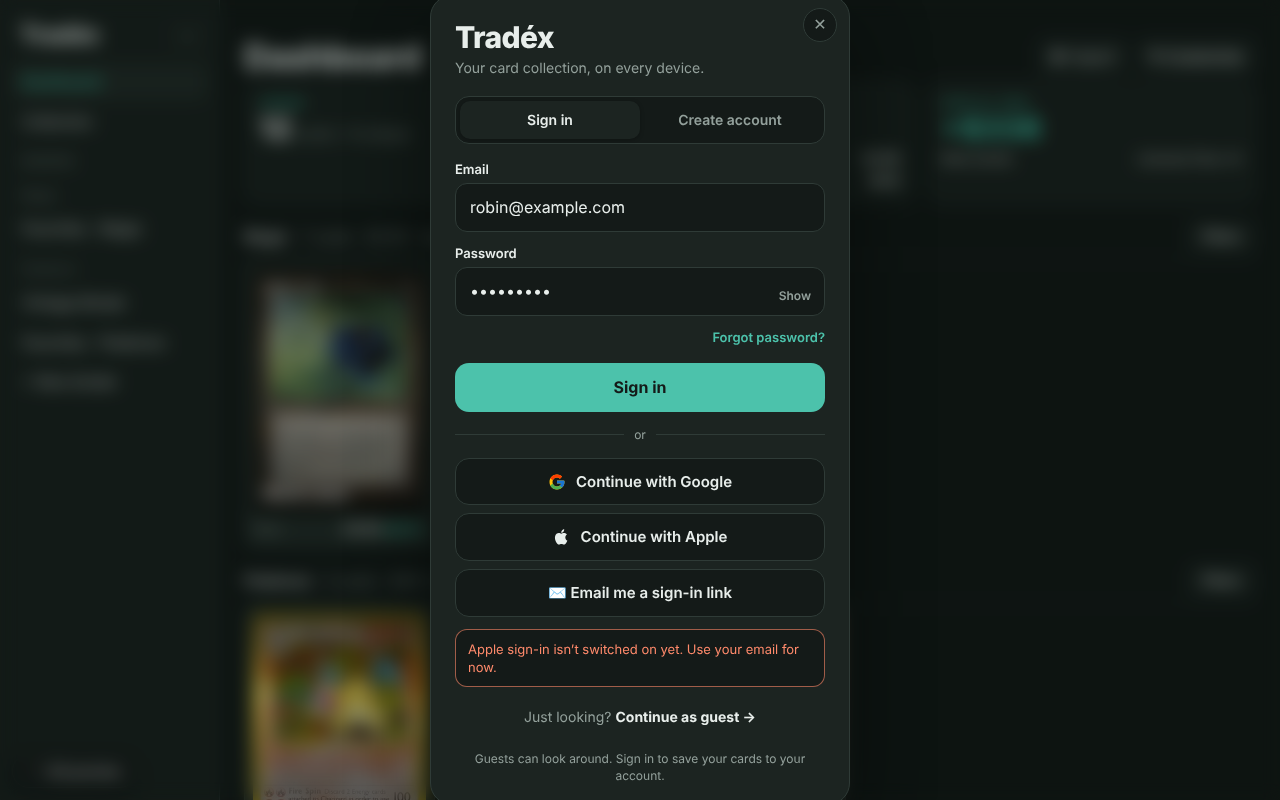
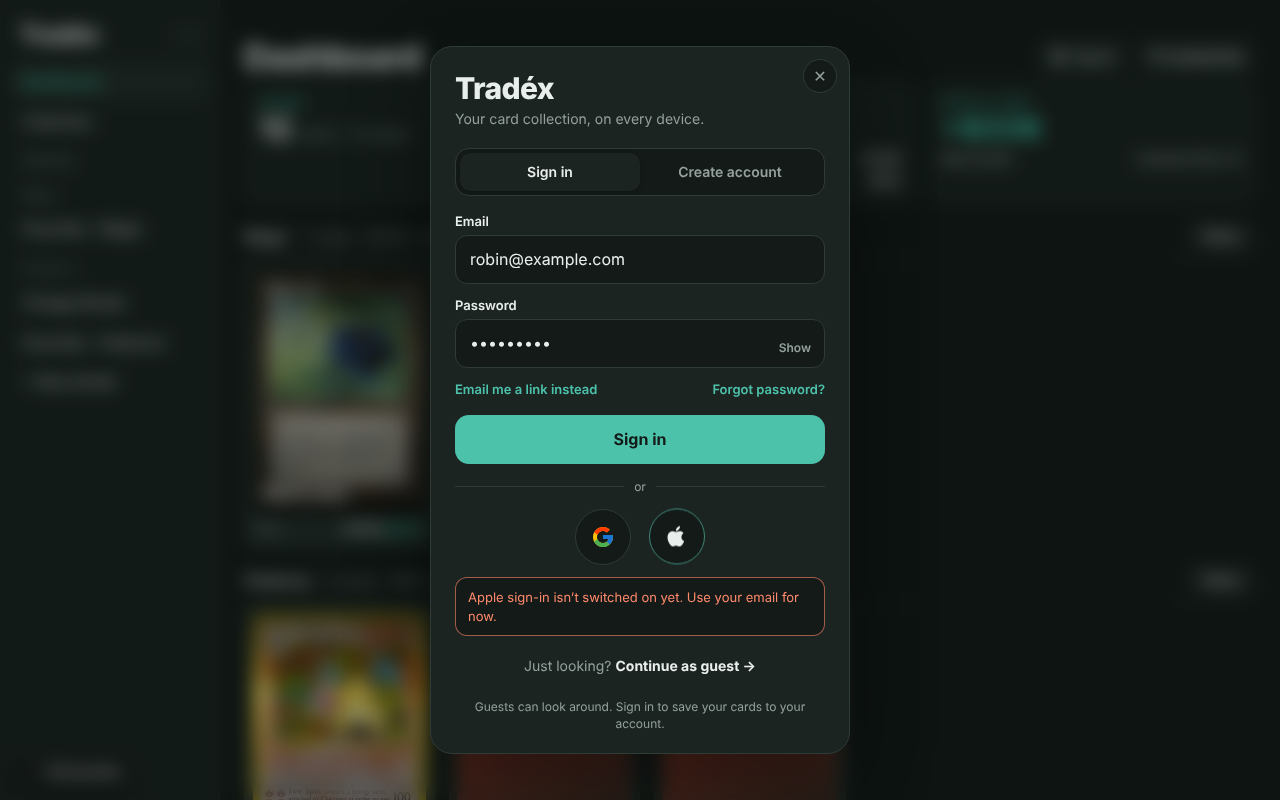
Round Google and Apple buttons side by side, tear at 0.58s
Google and Apple become two round icon buttons next to each other with
Continue as guest right below. The email sign-in link moves to a text
link beside Forgot password. The tear now takes 0.58 seconds.

Claude-Session: https://claude.ai/code/session_01K6ofJxh6QarDQ2gKnJ83gJ

diff --git a/js/account.js b/js/account.js
@@ -130,6 +130,10 @@ const css=`#txa{position:fixed;inset:0;z-index:100000;display:flex;align-items:c
 #txa .go:disabled{opacity:.7;cursor:wait}
 #txa .go2{width:100%;padding:12px;border-radius:14px;border:1px solid var(--line);background:var(--bg);color:inherit;font-family:inherit;font-weight:600;font-size:15px;cursor:pointer;margin:8px 0 0;display:flex;align-items:center;justify-content:center;gap:10px}
 #txa .go2 svg{width:18px;height:18px}
+#txa .oauth{display:flex;justify-content:center;gap:18px;margin:2px 0 0}
+#txa .circ{width:56px;height:56px;border-radius:50%;border:1px solid var(--line);background:var(--bg);color:inherit;display:grid;place-items:center;padding:0;margin:0;cursor:pointer;transition:transform .15s,border-color .15s}
+#txa .circ:hover{border-color:var(--acc);transform:translateY(-1px)}#txa .circ:focus-visible{outline:none;box-shadow:0 0 0 3px color-mix(in srgb,var(--acc) 35%,transparent)}
+#txa .circ svg{width:24px;height:24px}
 #txa .or{display:flex;align-items:center;gap:10px;color:var(--mut);font-size:12px;margin:14px 0}#txa .or:before,#txa .or:after{content:'';flex:1;height:1px;background:var(--line)}
 #txa .spin{width:16px;height:16px;border-radius:50%;border:2px solid currentColor;border-right-color:transparent;animation:txs .7s linear infinite}@keyframes txs{to{transform:rotate(1turn)}}
 #txa .rules{list-style:none;padding:0;margin:-4px 0 12px;font-size:12px;color:var(--mut)}#txa .rules li:before{content:'○ '}#txa .rules li.ok{color:var(--acc)}#txa .rules li.ok:before{content:'✓ '}
@@ -152,14 +156,13 @@ let view=LS('tradex_auth_view')==='up'?'up':'in',email=LS('tradex_last_email')||
 const ttl=s=>s[0].toUpperCase()+s.slice(1);
 function screen(){const up=view==='up',fan='',x=`<button type="button" class="x" id="txguest2" aria-label="Close and continue as guest">✕</button>`,head='<div class="txlogo">Tradéx</div><p class="txtag">Your card collection, on every device.</p>';
  const emailF=`<div class="fld"><label for="txe">Email</label><input id="txe" type="email" autocomplete="email" inputmode="email" autocapitalize="off" spellcheck="false" required value="${esc(email)}"></div>`;
- if(view==='in'||view==='up'){const pv=['google','apple'].map(p=>`<button type="button" class="go2" data-oauth="${p}">${ICON[p]}Continue with ${ttl(p)}</button>`).join('');
+ if(view==='in'||view==='up'){const pv='<div class="oauth">'+['google','apple'].map(p=>`<button type="button" class="circ" data-oauth="${p}" aria-label="Continue with ${ttl(p)}" title="Continue with ${ttl(p)}">${ICON[p]}</button>`).join('')+'</div>';
   return fan+`<form class="bx" id="txf" novalidate>${x}${head}<div class="seg" role="tablist"><button type="button" role="tab" data-view="in" aria-selected="${!up}">Sign in</button><button type="button" role="tab" data-view="up" aria-selected="${up}">Create account</button></div>
   ${emailF}
   <div class="fld"><label for="txp">Password</label><input id="txp" type="password" autocomplete="${up?'new-password':'current-password'}" minlength="8" required><button type="button" class="eye" id="txeye" aria-label="Show password">Show</button></div>
-  ${up?'<ul class="rules" id="txrules"><li data-r="len">At least 8 characters</li><li data-r="mix">A letter and a number</li></ul>':'<div class="txrow"><span></span><button type="button" class="lnk" data-view="reset">Forgot password?</button></div>'}
+  ${up?'<ul class="rules" id="txrules"><li data-r="len">At least 8 characters</li><li data-r="mix">A letter and a number</li></ul>':'<div class="txrow"><button type="button" class="lnk" id="txl">Email me a link instead</button><button type="button" class="lnk" data-view="reset">Forgot password?</button></div>'}
   <button class="go" type="submit" id="txgo">${up?'Create account':'Sign in'}</button>
   <div class="or">or</div>${pv}
-  ${up?'':'<button type="button" class="go2" id="txl">✉ Email me a sign-in link</button>'}
   <div class="msg" id="txmsg" role="status" aria-live="polite"></div>
   <button type="button" class="guest" id="txguest">Just looking? <b>Continue as guest →</b></button>
   <p class="fine">${up?'Your cards are saved to your account and sync across your devices.':'Guests can look around. Sign in to save your cards to your account.'}</p></form>`}
@@ -249,7 +252,7 @@ function lift(rip){const g=$('#txa');if(!g||g.classList.contains('clear'))return
   v.style.cssText=`position:absolute;left:0;top:0;width:100%;height:${cut+12}px;pointer-events:none;overflow:visible`;
   v.innerHTML=`<polyline points="${pts.map(([x,y])=>x+','+y).join(' ')}" fill="none" stroke="rgba(255,255,255,.6)" stroke-width="1.6" vector-effect="non-scaling-stroke" stroke-linejoin="bevel"/>`;return v};
  const at=x=>{for(let i=1;i<pts.length;i++)if(pts[i][0]>=x){const[a,b]=[pts[i-1],pts[i]];return b[0]===a[0]?b[1]:a[1]+(b[1]-a[1])*(x-a[0])/(b[0]-a[0])}return pts[pts.length-1][1]};
- const wrap=document.createElement('div'),SW=780,W=r.width,PX=pts.map(([x,y])=>[x/100*W,y]);wrap.setAttribute('aria-hidden','true');
+ const wrap=document.createElement('div'),SW=580,W=r.width,PX=pts.map(([x,y])=>[x/100*W,y]);wrap.setAttribute('aria-hidden','true');
  Object.assign(wrap.style,{position:'fixed',left:r.left+'px',top:r.top+'px',width:W+'px',height:r.height+'px',pointerEvents:'none',zIndex:1,overflow:'visible',transformOrigin:`100% ${cut}px`});
  // The torn-off title strip stays one piece: the part not yet folded is the card itself, and the part folded over
  // is its mirror image across a slanted crease, drawn as the silver inside of the foil draping down over the right side.
